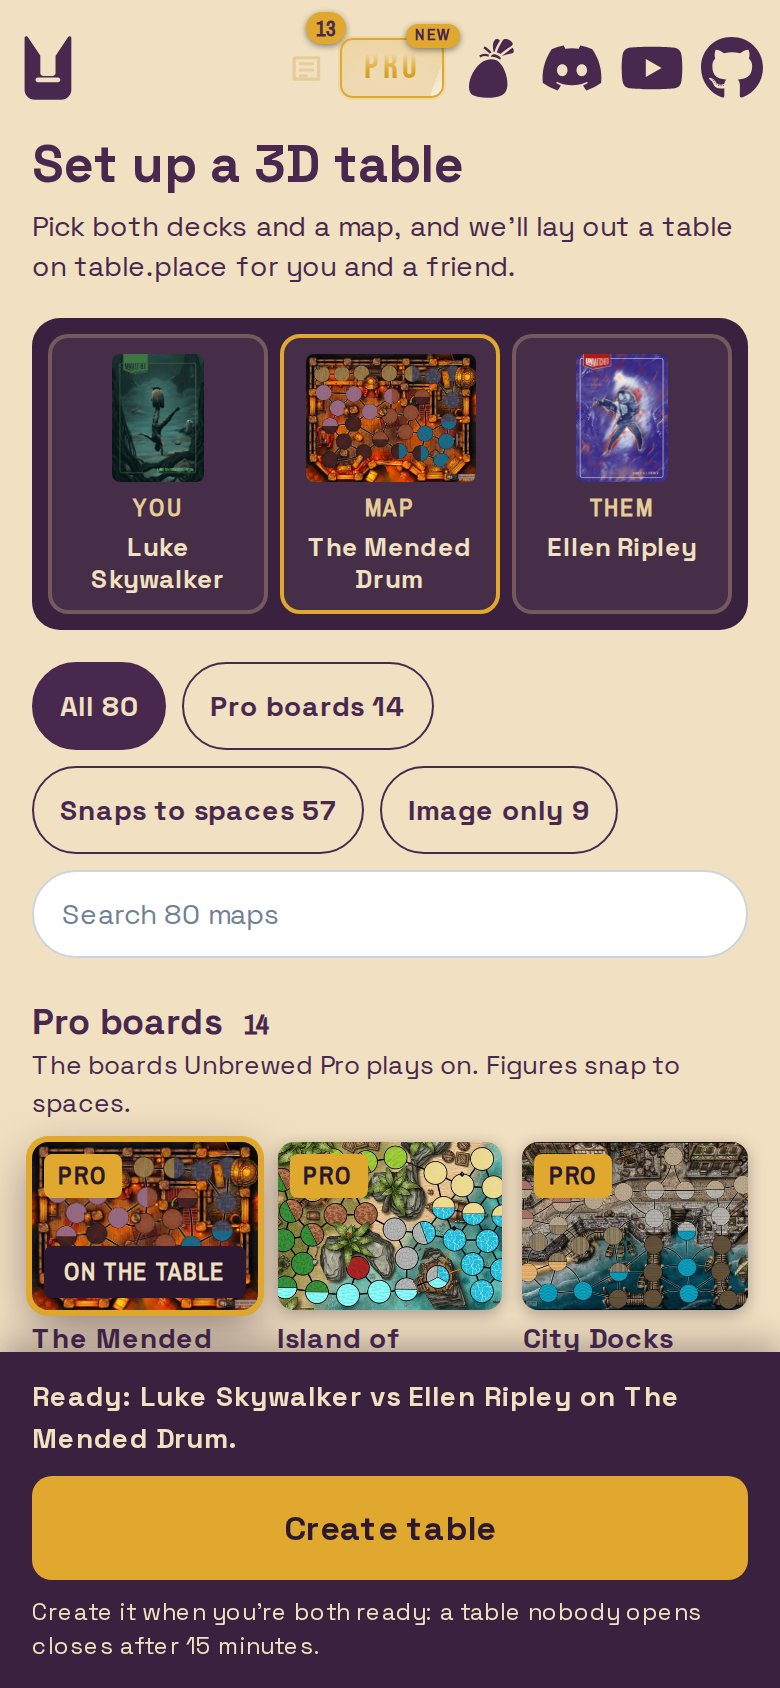
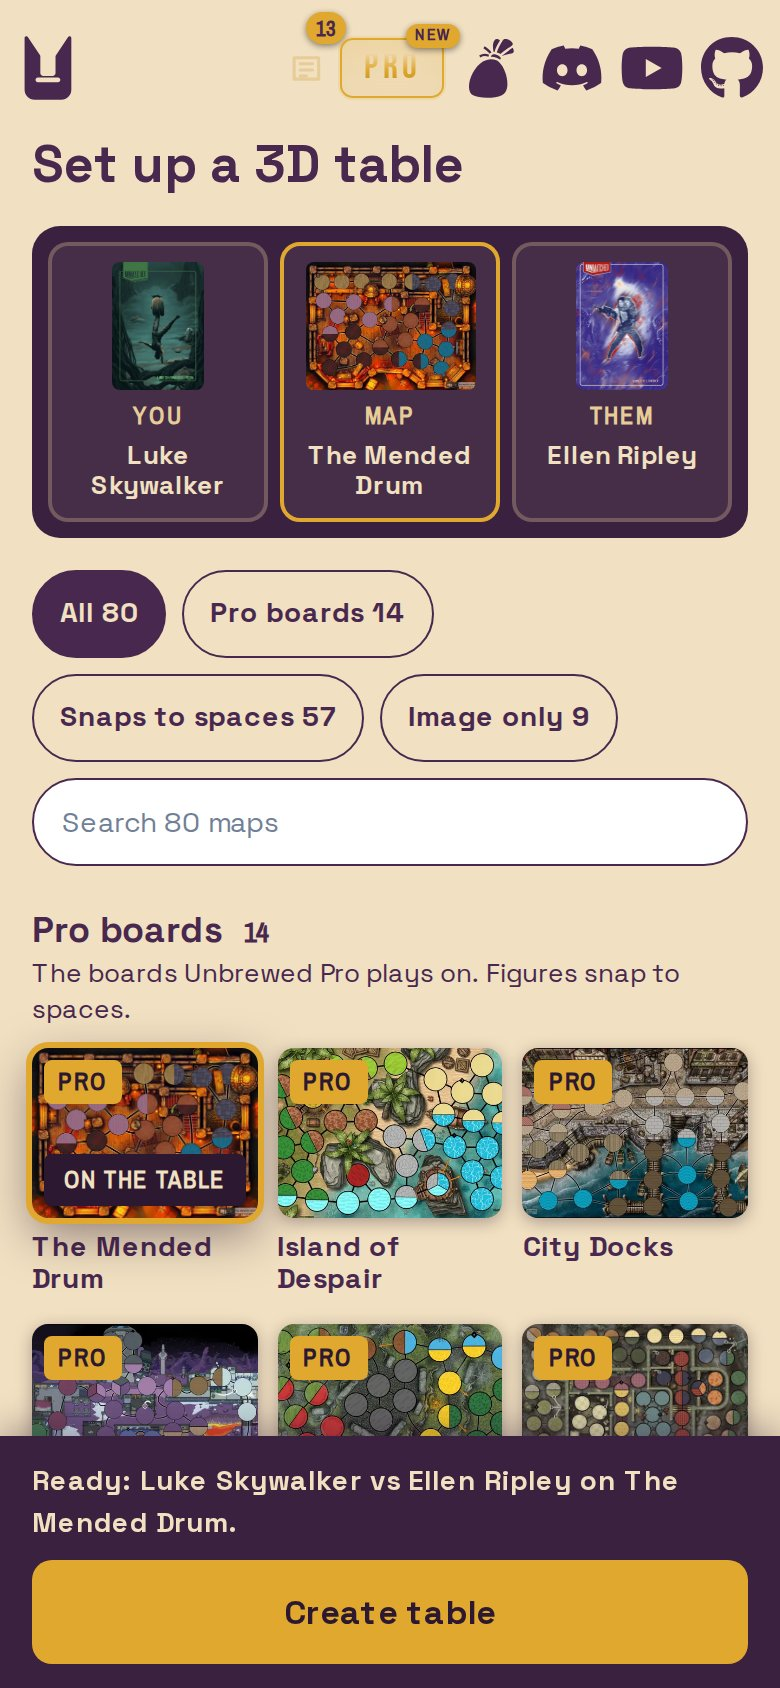
unbrewed-p2p-1118: /table phone: drop the intro and the closes-after line
Below lg the header and the pinned Create bar left room for one row of
tiles on a 390x844 screen. The intro sentence under the h1 and the "closes
after N minutes" line are now hidden below lg; the bar keeps the status
line, the refused-deck line, the API error box and the Create button.
Desktop is unchanged.

diff --git a/components/TablePlace/TablePage.test.tsx b/components/TablePlace/TablePage.test.tsx
@@ -5,6 +5,7 @@ import {
   waitFor,
   within,
 } from "@testing-library/react";
+import { ChakraProvider } from "@chakra-ui/react";
 import type { DeckImportType } from "@/components/DeckPool/deck-import.type";
 import {
   FIXTURES,
@@ -22,6 +23,7 @@ import {
 } from "@/lib/labs";
 import type { MapData } from "@/lib/hooks/useLocalStorage";
 import { MAP_CATALOG } from "@/lib/pro/mapCatalog";
+import { theme } from "@/styles/style";
 import { TablePage } from "./TablePage";
 
 jest.mock("next/router", () => ({
@@ -129,6 +131,11 @@ const createTable = async () => {
   return screen.findByTestId("api-error", {}, { timeout: 10_000 });
 };
 
+/** The app's theme: without its breakpoints no responsive style resolves. */
+const Themed = ({ children }: { children: React.ReactNode }) => (
+  <ChakraProvider theme={theme}>{children}</ChakraProvider>
+);
+
 /** A bag of fresh decks (nothing carries over), the first one starred. */
 const bag = (decks: DeckImportType[], star = decks[0]?.id ?? "") => {
   mockBag.decks = decks;
@@ -136,10 +143,10 @@ const bag = (decks: DeckImportType[], star = decks[0]?.id ?? "") => {
 };
 
 /** Your deck starred, their deck picked from the bag, a map on the table. */
-const setup = () => {
+const setup = (themed = false) => {
   const [mine, theirs] = [labsDeck(), elliotDeck()];
   bag([mine, theirs]);
-  render(<TablePage />);
+  render(<TablePage />, themed ? { wrapper: Themed } : undefined);
   fireEvent.click(tab("them"));
   fireEvent.click(deckTile(theirs.id));
   pickMap("/m1.webp");
@@ -373,6 +380,78 @@ describe("TablePage — create flow, reasons and accessibility (issue #1063)", (
       "What goes on the table",
     );
     expect(within(contents).getAllByTestId("deck-preview")).toHaveLength(2);
+  });
+});
+
+describe("TablePage — the phone layout (PR #1121)", () => {
+  // Rendered with the theme, so the breakpoints resolve. jsdom matches no
+  // media query: what it computes is the layout below `lg`, and the `lg` rule
+  // is read off the stylesheet.
+  const display = (el: Element) => getComputedStyle(el).display;
+  const shownFromLg = (el: Element) => {
+    const rules = [...document.styleSheets].flatMap((sheet) => [
+      ...sheet.cssRules,
+    ]);
+    return rules.some(
+      (rule) =>
+        rule instanceof CSSMediaRule &&
+        /min-width:\s*62em/.test(rule.media.mediaText) &&
+        [...rule.cssRules].some(
+          (inner) =>
+            inner instanceof CSSStyleRule &&
+            el.matches(inner.selectorText) &&
+            inner.style.display === "block",
+        ),
+    );
+  };
+
+  it("hides the intro and the closes-after line on a phone, and only there", () => {
+    setup(true);
+    for (const id of ["intro", "closes-note"]) {
+      const el = screen.getByTestId(id);
+      expect(display(el)).toBe("none");
+      expect(shownFromLg(el)).toBe(true);
+    }
+    expect(screen.getByTestId("intro").textContent).toContain(
+      "Pick both decks and a map",
+    );
+    expect(screen.getByTestId("closes-note").textContent).toContain(
+      "closes after 15 minutes",
+    );
+    expect(display(screen.getByRole("heading", { level: 1 }))).not.toBe("none");
+    expect(display(screen.getByTestId("status"))).not.toBe("none");
+    expect(display(create())).not.toBe("none");
+    expect(
+      screen.getByTestId("create-bar").contains(screen.getByTestId("status")),
+    ).toBe(true);
+  });
+
+  it("keeps the API error box in the pinned bar", async () => {
+    mockValidate.mockResolvedValue({ ok: false, error: err({}) });
+    setup(true);
+    const box = await createTable();
+    expect(display(box)).not.toBe("none");
+    expect(screen.getByTestId("create-bar").contains(box)).toBe(true);
+  });
+
+  it("keeps the refused-deck line and the seat's reason", () => {
+    bag([oak(), elliotDeck()]);
+    render(<TablePage />, { wrapper: Themed });
+    fireEvent.click(tab("them"));
+    fireEvent.click(deckTile(mockBag.decks[1].id));
+    const line = screen.getByTestId("refused-reason");
+    expect(display(line)).not.toBe("none");
+    expect(screen.getByTestId("create-bar").contains(line)).toBe(true);
+    expect(display(screen.getByRole("alert"))).not.toBe("none");
+    expect(display(screen.getByTestId("tts-how"))).not.toBe("none");
+  });
+
+  it("keeps the map image alert", () => {
+    mockImageSize.failed = true;
+    setup(true);
+    const alert = screen.getByRole("alert");
+    expect(alert.textContent).toContain("Couldn't load this map's image");
+    expect(display(alert)).not.toBe("none");
   });
 });
 

diff --git a/components/TablePlace/TablePage.tsx b/components/TablePlace/TablePage.tsx
@@ -230,7 +230,7 @@ export const TablePage = () => {
         gap={{ base: "16px", lg: "28px" }}
         px={{ base: "16px", lg: "32px" }}
         // below `lg`, room for the pinned Create bar
-        pb={{ base: "176px", lg: "32px" }}
+        pb={{ base: "140px", lg: "32px" }}
         sx={{ [SHORT_SCREEN]: { paddingBottom: "16px" } }}
       >
         {/* The rail. Below `lg` its parts join the page's one column, so the
@@ -298,7 +298,13 @@ export const TablePage = () => {
               >
                 Set up a 3D table
               </Text>
-              <Text fontSize="14px" lineHeight={1.45}>
+              {/* Below `lg` the first screen goes to the gallery's tiles. */}
+              <Text
+                display={{ base: "none", lg: "block" }}
+                fontSize="14px"
+                lineHeight={1.45}
+                data-testid="intro"
+              >
                 Pick both decks and a map, and we&apos;ll lay out a table on
                 table.place for you and a friend.
               </Text>
@@ -442,10 +448,12 @@ export const TablePage = () => {
                 One deck can&apos;t go on the table yet (see above).
               </Text>
             )}
+            {/* Not in the pinned bar: it holds the status and the button. */}
             <Text
-              order={{ base: 3, lg: 0 }}
-              fontSize={{ base: "12px", lg: "13px" }}
+              display={{ base: "none", lg: "block" }}
+              fontSize="13px"
               lineHeight={1.4}
+              data-testid="closes-note"
             >
               Create it when you&apos;re both ready: a table nobody opens closes
               after {EMPTY_LOBBY_REAP_MINUTES} minutes.
